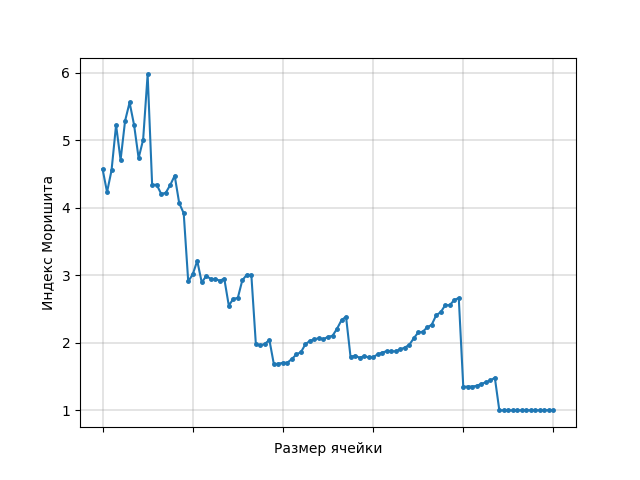
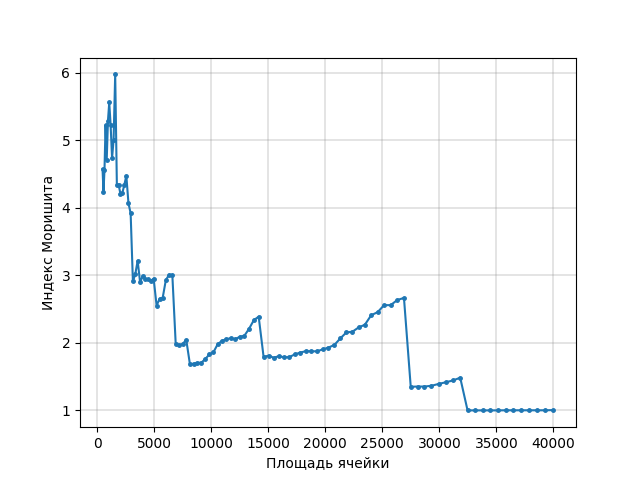
update img

diff --git a/main.py b/main.py
@@ -5,8 +5,8 @@ from morishita import Morishita
 points = gpd.read_file('./data.geojson')
 
 morishita = Morishita(points)
-morishita.calculate_diagram(10, 10, 360, 360, 36)
+morishita.calculate_diagram(20, 20, 200, 200, 100)
 morishita_diagram_plot = morishita.get_diagram_plot()
 
 # morishita_diagram_plot.show()
-morishita_diagram_plot.show()
+morishita_diagram_plot.savefig("diagram")
